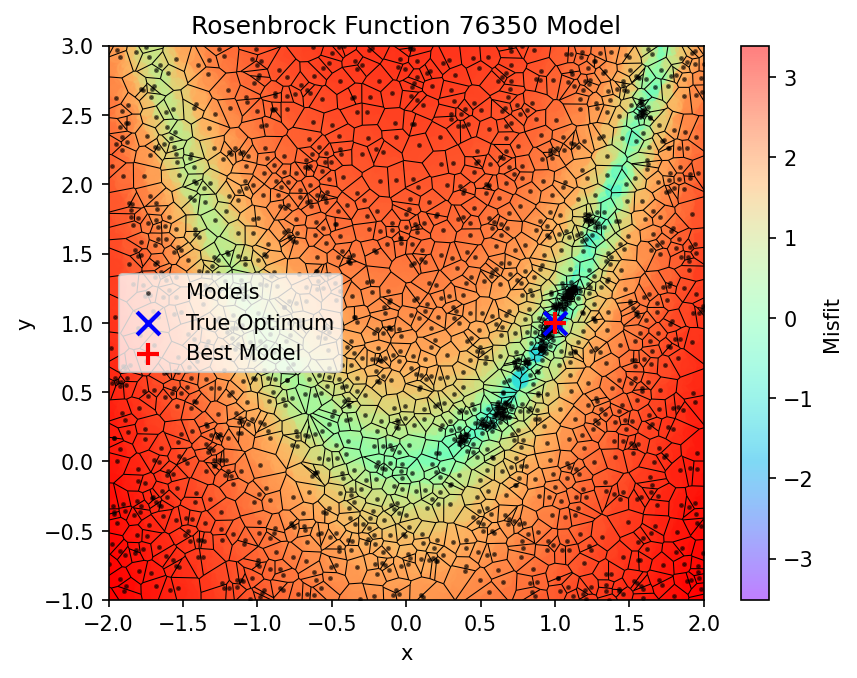
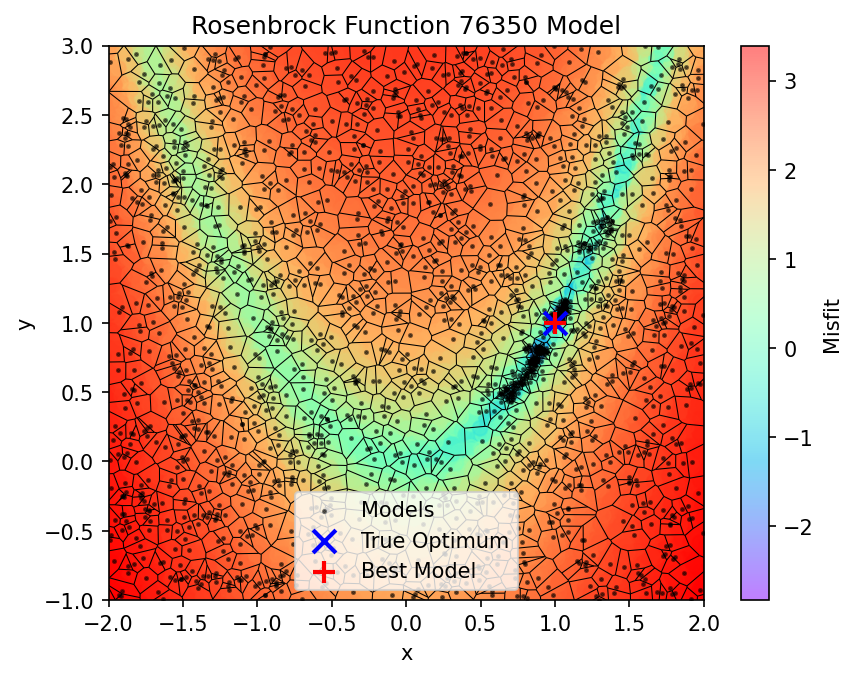
update

diff --git a/NA/Search.py b/NA/Search.py
@@ -16,11 +16,9 @@ def generate_random_models(n, nd):
 def sampling_jit(ns, nd, nr, models, np_current, misfits):
     new_models = np.zeros((ns, nd))
     
-    # 1. Identifikasi model-model terbaik
     m = models[:np_current]
     best_indices = np.argsort(misfits[:np_current])[:nr]
     
-    # Distribusi jumlah langkah per sel
     walk_lengths = np.full(nr, ns // nr, dtype=np.int32)
     walk_lengths[0] += ns % nr 
     
@@ -28,17 +26,15 @@ def sampling_jit(ns, nd, nr, models, np_current, misfits):
     for i in range(1, nr):
         offsets[i] = offsets[i-1] + walk_lengths[i-1]
 
-    # 2. Paralelisasi antar sel Voronoi
     for r in prange(nr):
         k = best_indices[r]
-        vk = m[k] # Titik pusat model referensi k
+        vk = m[k] 
         current_walk_len = walk_lengths[r]
         current_offset = offsets[r]
         
-        # --- INISIALISASI GIBBS SAMPLER (Sesuai Paper) ---
-        xA = vk.copy() # Start walk dari pusat sel
+        xA = vk.copy() 
         
-        # Hitung Jarak Penuh Euclidean sebagai basis awal
+        
         d2_full = np.zeros(np_current)
         for j in range(np_current):
             dist_sq = 0.0
@@ -48,24 +44,18 @@ def sampling_jit(ns, nd, nr, models, np_current, misfits):
             d2_full[j] = dist_sq
         
         for step in range(current_walk_len):
-            # Sambridge menyarankan urutan sumbu diacak (Permutation)
-            axes = np.random.permutation(nd)
-            
-            for i in axes:
+
+            for i in range(nd):
                 vki = vk[i]
                 vji = m[:, i]
-                
-                # --- LOGIKA JARAK TEGAK LURUS (Eq 18 Paper) ---
-                # d_perp^2 = d_full^2 - d_sumbu_saat_ini^2
-                # Ini memastikan kita membuang komponen sumbu-i
+
+                # ---  (Eq 18 Paper) ---
                 d2_perp = np.zeros(np_current)
                 for j in range(np_current):
                     d2_perp[j] = d2_full[j] - (m[j, i] - xA[i])**2
                 
                 dk2_perp = d2_perp[k] 
                 
-                # --- RUMUS SAMBRIDGE ASLI (Eq 19 Paper) ---
-                # xji = 0.5 * [ vki + vji + (dk_perp^2 - dj_perp^2) / (vki - vji) ]
                 li = 0.0
                 ui = 1.0
                 
@@ -74,26 +64,24 @@ def sampling_jit(ns, nd, nr, models, np_current, misfits):
                     
                     if denominator != 0.0:
                         numerator = dk2_perp - d2_perp[j]
+                        # ---  (Eq 19 Paper) ---
                         xji = 0.5 * (vki + vji[j] + (numerator / denominator))
                         
-                        # --- UPDATE BATAS (Eq 20 & 21 Paper) ---
+                        # ---  (Eq 20 & 21 Paper) ---
                         if xji < xA[i]:
                             if xji > li: li = xji
                         elif xji > xA[i]:
                             if xji < ui: ui = xji
                 
-                # Update posisi xA (Random Move)
                 xA_old_i = xA[i]
                 xA[i] = li + (ui - li) * np.random.random()
                 
-                # --- RECURSIVE DISTANCE UPDATE (Eq 24 Paper) ---
-                # Agar d2_full tetap sinkron untuk sumbu berikutnya
+                # --- RECURSIVE DISTANCE UPDATE 
                 for j in range(np_current):
                     old_diff = m[j, i] - xA_old_i
                     new_diff = m[j, i] - xA[i]
                     d2_full[j] = d2_full[j] - (old_diff**2) + (new_diff**2)
             
-            # Simpan hasil koordinat xA yang sudah berkelana
             new_models[current_offset + step] = xA.copy()
             
     return new_models
